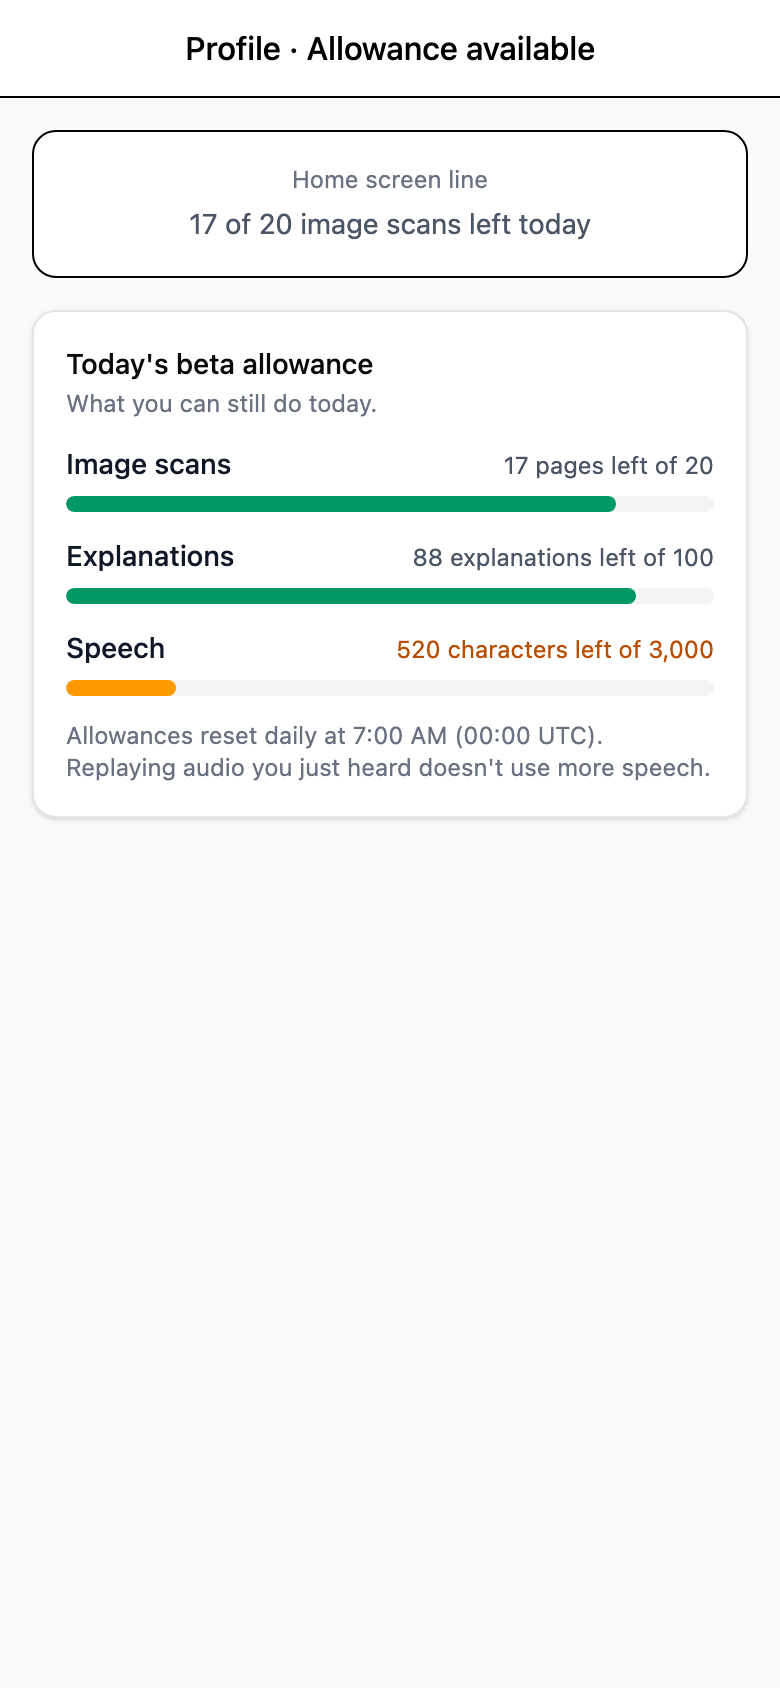
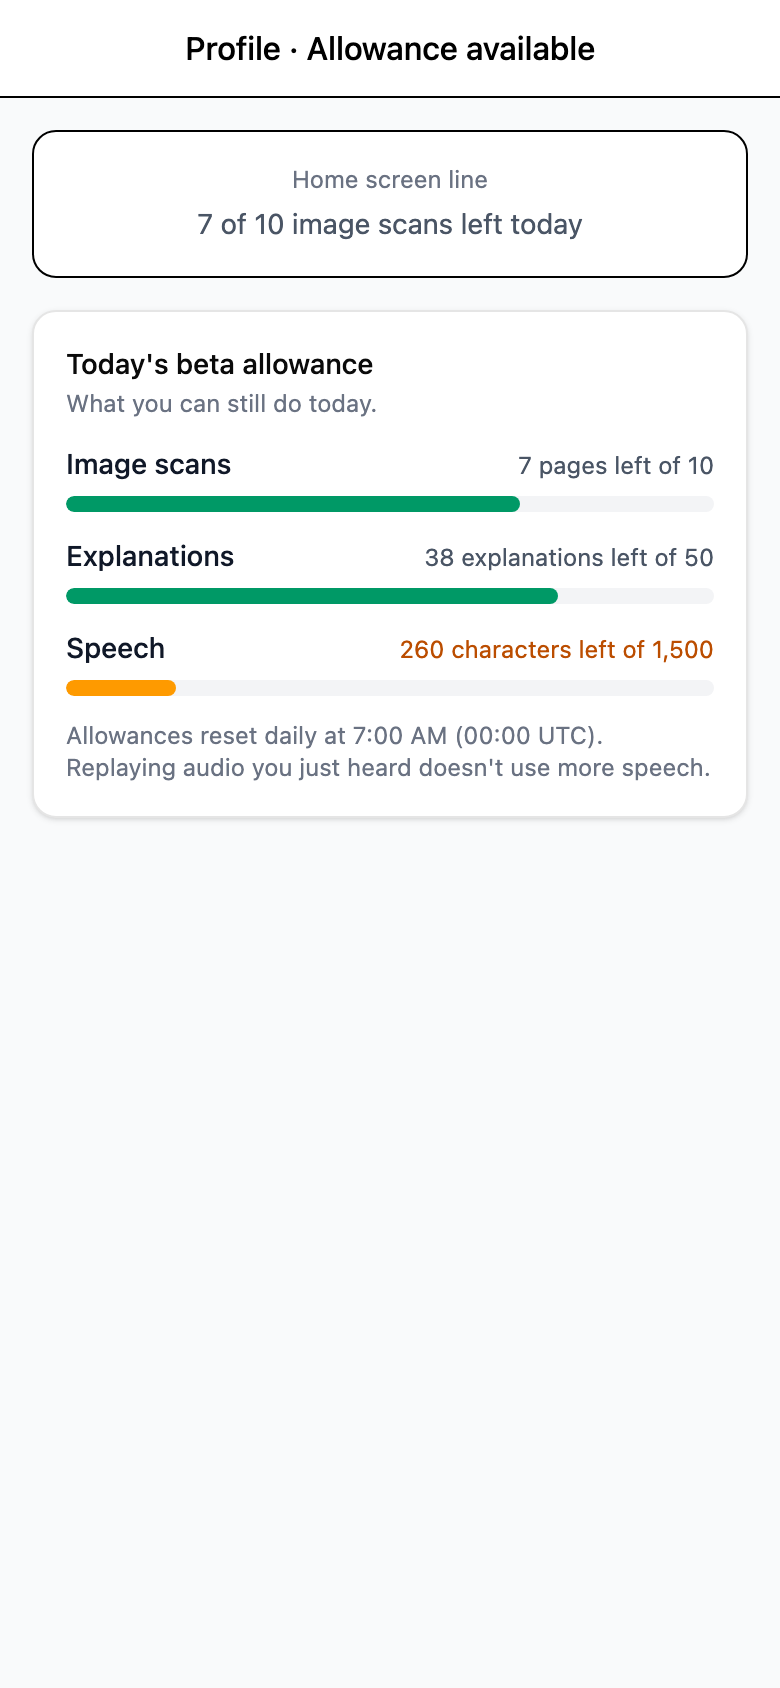
feat: apply owner-approved usage caps as defaults (#42)
Per user/day: 10 OCR pages, 50 explanations, 1500 speech characters.
Global/day: 250, 1250, 37500. Speech per request: 250 characters.

Changed region(s): [[0.5231, 0.2464, 0.8923, 0.4005], [0.2462, 0.1232, 0.7692, 0.154], [0.8615, 0.2464, 0.8923, 0.2773]]

diff --git a/web/src/lib/__tests__/usage.test.ts b/web/src/lib/__tests__/usage.test.ts
@@ -17,22 +17,22 @@ const entitlementsBody = {
     timezone: 'UTC',
     resetAt: '2026-10-21T00:00:00Z',
     features: [
-      { feature: 'ocr', unit: 'page', limit: 20, used: 3, remaining: 17, globalAvailable: true },
-      { feature: 'explanation', unit: 'request', limit: 100, used: 100, remaining: 0, globalAvailable: true },
-      { feature: 'speech', unit: 'character', limit: 3000, used: 0, remaining: 3000, maxPerRequest: 500, globalAvailable: false },
+      { feature: 'ocr', unit: 'page', limit: 10, used: 3, remaining: 7, globalAvailable: true },
+      { feature: 'explanation', unit: 'request', limit: 50, used: 50, remaining: 0, globalAvailable: true },
+      { feature: 'speech', unit: 'character', limit: 1500, used: 0, remaining: 1500, maxPerRequest: 250, globalAvailable: false },
     ],
   },
 }
 
 function allowance(overrides: Partial<FeatureAllowance>): FeatureAllowance {
-  return { feature: 'ocr', unit: 'page', limit: 20, used: 0, remaining: 20, globalAvailable: true, ...overrides }
+  return { feature: 'ocr', unit: 'page', limit: 10, used: 0, remaining: 10, globalAvailable: true, ...overrides }
 }
 
 describe('parseEntitlements', () => {
   it('accepts the API shape', () => {
     const parsed = parseEntitlements(entitlementsBody)
     expect(parsed?.usage.features.map((f) => f.feature)).toEqual(['ocr', 'explanation', 'speech'])
-    expect(parsed?.usage.features[2].maxPerRequest).toBe(500)
+    expect(parsed?.usage.features[2].maxPerRequest).toBe(250)
   })
 
   it.each([
@@ -47,11 +47,11 @@ describe('parseEntitlements', () => {
 
 describe('getAllowanceState', () => {
   it.each([
-    ['available', allowance({ remaining: 17 })],
-    ['low', allowance({ remaining: 4 })],
-    ['exhausted', allowance({ used: 20, remaining: 0 })],
+    ['available', allowance({ used: 3, remaining: 7 })],
+    ['low', allowance({ used: 8, remaining: 2 })],
+    ['exhausted', allowance({ used: 10, remaining: 0 })],
     ['disabled', allowance({ limit: 0, remaining: 0 })],
-    ['paused', allowance({ remaining: 10, globalAvailable: false })],
+    ['paused', allowance({ used: 5, remaining: 5, globalAvailable: false })],
   ])('derives %s', (state, value) => {
     expect(getAllowanceState(value)).toBe(state)
   })
@@ -67,7 +67,7 @@ describe('usage errors', () => {
   it('loads and validates entitlements', async () => {
     global.fetch = vi.fn().mockResolvedValueOnce(Response.json(entitlementsBody))
     const result = await getEntitlements()
-    expect(result.usage.features[0].remaining).toBe(17)
+    expect(result.usage.features[0].remaining).toBe(7)
 
     global.fetch = vi.fn().mockResolvedValueOnce(Response.json({ plan: 'free' }))
     await expect(getEntitlements()).rejects.toThrow('Unexpected entitlements response')
@@ -93,7 +93,7 @@ describe('usage errors', () => {
 
   it.each([
     ['usage_budget_exhausted', { feature: 'ocr', resetAt: '2026-10-21T00:00:00Z' }, /beta capacity for image scan is used up/],
-    ['usage_request_too_large', { feature: 'speech', max: 500 }, /Select up to 500 characters/],
+    ['usage_request_too_large', { feature: 'speech', max: 250 }, /Select up to 250 characters/],
     ['usage_unavailable', {}, /could not be checked/],
     ['rate_limited', {}, /Too many requests/],
     ['ai_provider_limited', {}, /AI service is busy/],

diff --git a/web/src/components/usage/__tests__/AllowancePanel.test.tsx b/web/src/components/usage/__tests__/AllowancePanel.test.tsx
@@ -10,8 +10,8 @@ function entitlements(features: FeatureAllowance[]): Entitlements {
   return { plan: 'free', usage: { period: 'daily', timezone: 'UTC', resetAt, features } }
 }
 
-const ocr: FeatureAllowance = { feature: 'ocr', unit: 'page', limit: 20, used: 3, remaining: 17, globalAvailable: true }
-const explanation: FeatureAllowance = { feature: 'explanation', unit: 'request', limit: 100, used: 100, remaining: 0, globalAvailable: true }
+const ocr: FeatureAllowance = { feature: 'ocr', unit: 'page', limit: 10, used: 3, remaining: 7, globalAvailable: true }
+const explanation: FeatureAllowance = { feature: 'explanation', unit: 'request', limit: 50, used: 50, remaining: 0, globalAvailable: true }
 const speech: FeatureAllowance = { feature: 'speech', unit: 'character', limit: 0, used: 0, remaining: 0, globalAvailable: true }
 
 describe('AllowanceView', () => {
@@ -21,7 +21,7 @@ describe('AllowanceView', () => {
     const items = within(screen.getByRole('list')).getAllByRole('listitem')
     expect(items).toHaveLength(3)
     expect(items[0]).toHaveTextContent('Image scans')
-    expect(items[0]).toHaveTextContent('17 pages left of 20')
+    expect(items[0]).toHaveTextContent('7 pages left of 10')
     expect(items[1]).toHaveTextContent('Explanations')
     expect(items[1]).toHaveTextContent(/Daily limit reached\. Resets at/)
     expect(items[2]).toHaveTextContent('Not available during the beta.')
@@ -57,11 +57,11 @@ describe('AllowanceView', () => {
 describe('ScanAllowanceLine', () => {
   it('summarises remaining scans', () => {
     render(<ScanAllowanceLine allowance={ocr} resetAt={resetAt} />)
-    expect(screen.getByText('17 of 20 image scans left today')).toBeInTheDocument()
+    expect(screen.getByText('7 of 10 image scans left today')).toBeInTheDocument()
   })
 
   it('announces an exhausted allowance and the PDF alternative', () => {
-    render(<ScanAllowanceLine allowance={{ ...ocr, used: 20, remaining: 0 }} resetAt={resetAt} />)
+    render(<ScanAllowanceLine allowance={{ ...ocr, used: 10, remaining: 0 }} resetAt={resetAt} />)
     expect(screen.getByRole('status')).toHaveTextContent(/Daily limit reached\. Resets at .+ PDF reading is still available\./)
   })
 })

diff --git a/web/src/hooks/__tests__/useEntitlements.test.ts b/web/src/hooks/__tests__/useEntitlements.test.ts
@@ -13,7 +13,7 @@ function entitlements(remaining: number, resetAt: string): Entitlements {
       period: 'daily',
       timezone: 'UTC',
       resetAt,
-      features: [{ feature: 'ocr', unit: 'page', limit: 20, used: 20 - remaining, remaining, globalAvailable: true }],
+      features: [{ feature: 'ocr', unit: 'page', limit: 10, used: 10 - remaining, remaining, globalAvailable: true }],
     },
   }
 }
@@ -31,7 +31,7 @@ describe('useEntitlements', () => {
     const fetchEntitlements = vi
       .spyOn(api, 'getEntitlements')
       .mockResolvedValueOnce(entitlements(0, '2026-10-21T00:00:00Z'))
-      .mockResolvedValueOnce(entitlements(20, '2026-10-22T00:00:00Z'))
+      .mockResolvedValueOnce(entitlements(10, '2026-10-22T00:00:00Z'))
     // Mirror App.tsx, which disables focus refetching globally.
     const queryClient = new QueryClient({ defaultOptions: { queries: { retry: false, refetchOnWindowFocus: false } } })
     const wrapper = ({ children }: { children: React.ReactNode }) =>
@@ -44,7 +44,7 @@ describe('useEntitlements', () => {
     vi.setSystemTime(new Date('2026-10-21T08:00:00Z'))
     act(() => focusManager.setFocused(true))
 
-    await waitFor(() => expect(result.current.data?.usage.features[0].remaining).toBe(20))
+    await waitFor(() => expect(result.current.data?.usage.features[0].remaining).toBe(10))
     expect(fetchEntitlements).toHaveBeenCalledTimes(2)
   })
   it('shows a page refunded by failed background OCR within a minute', async () => {

diff --git a/backend/internal/config/config.go b/backend/internal/config/config.go
@@ -59,6 +59,7 @@ type Config struct {
 
 	// Daily beta allowances (UTC days). Per-user quotas sit under a global
 	// budget per feature; 0 disables a feature and there is no unlimited value.
+	// Defaults are the owner-approved operation caps from issue #42.
 	UsageOCRPagesPerDay           int
 	UsageExplanationsPerDay       int
 	UsageSpeechCharsPerDay        int
@@ -128,13 +129,13 @@ func Load() (*Config, error) {
 		AIRateLimit:              getEnvAsIntOrDefault("AI_RATE_LIMIT", 60),
 		AIRateLimitWindowSeconds: getEnvAsIntOrDefault("AI_RATE_LIMIT_WINDOW_SECONDS", 3600),
 
-		UsageOCRPagesPerDay:           getEnvAsIntOrDefault("USAGE_QUOTA_OCR_PAGES_PER_DAY", 20),
-		UsageExplanationsPerDay:       getEnvAsIntOrDefault("USAGE_QUOTA_EXPLANATIONS_PER_DAY", 100),
-		UsageSpeechCharsPerDay:        getEnvAsIntOrDefault("USAGE_QUOTA_SPEECH_CHARS_PER_DAY", 3000),
-		UsageGlobalOCRPagesPerDay:     getEnvAsIntOrDefault("USAGE_BUDGET_GLOBAL_OCR_PAGES_PER_DAY", 500),
-		UsageGlobalExplanationsPerDay: getEnvAsIntOrDefault("USAGE_BUDGET_GLOBAL_EXPLANATIONS_PER_DAY", 2500),
-		UsageGlobalSpeechCharsPerDay:  getEnvAsIntOrDefault("USAGE_BUDGET_GLOBAL_SPEECH_CHARS_PER_DAY", 75000),
-		UsageSpeechMaxCharsPerRequest: getEnvAsIntOrDefault("USAGE_SPEECH_MAX_CHARS_PER_REQUEST", 500),
+		UsageOCRPagesPerDay:           getEnvAsIntOrDefault("USAGE_QUOTA_OCR_PAGES_PER_DAY", 10),
+		UsageExplanationsPerDay:       getEnvAsIntOrDefault("USAGE_QUOTA_EXPLANATIONS_PER_DAY", 50),
+		UsageSpeechCharsPerDay:        getEnvAsIntOrDefault("USAGE_QUOTA_SPEECH_CHARS_PER_DAY", 1500),
+		UsageGlobalOCRPagesPerDay:     getEnvAsIntOrDefault("USAGE_BUDGET_GLOBAL_OCR_PAGES_PER_DAY", 250),
+		UsageGlobalExplanationsPerDay: getEnvAsIntOrDefault("USAGE_BUDGET_GLOBAL_EXPLANATIONS_PER_DAY", 1250),
+		UsageGlobalSpeechCharsPerDay:  getEnvAsIntOrDefault("USAGE_BUDGET_GLOBAL_SPEECH_CHARS_PER_DAY", 37500),
+		UsageSpeechMaxCharsPerRequest: getEnvAsIntOrDefault("USAGE_SPEECH_MAX_CHARS_PER_REQUEST", 250),
 	}
 
 	if cfg.normalizedAIProvider() == AIProviderRouted {

diff --git a/backend/internal/config/config_test.go b/backend/internal/config/config_test.go
@@ -139,10 +139,10 @@ func TestLoadReadsUsageQuotaConfig(t *testing.T) {
 	if cfg.UsageGlobalSpeechCharsPerDay != 1234 {
 		t.Fatalf("UsageGlobalSpeechCharsPerDay = %d, want 1234", cfg.UsageGlobalSpeechCharsPerDay)
 	}
-	// Documented beta defaults.
-	if cfg.UsageExplanationsPerDay != 100 || cfg.UsageSpeechCharsPerDay != 3000 ||
-		cfg.UsageGlobalOCRPagesPerDay != 500 || cfg.UsageGlobalExplanationsPerDay != 2500 ||
-		cfg.UsageSpeechMaxCharsPerRequest != 500 {
+	// Owner-approved beta defaults (issue #42).
+	if cfg.UsageExplanationsPerDay != 50 || cfg.UsageSpeechCharsPerDay != 1500 ||
+		cfg.UsageGlobalOCRPagesPerDay != 250 || cfg.UsageGlobalExplanationsPerDay != 1250 ||
+		cfg.UsageSpeechMaxCharsPerRequest != 250 {
 		t.Fatalf("unexpected usage defaults: %+v", cfg)
 	}
 }
@@ -342,13 +342,13 @@ func validConfig() *Config {
 		AIRateLimit:              60,
 		AIRateLimitWindowSeconds: 3600,
 
-		UsageOCRPagesPerDay:           20,
-		UsageExplanationsPerDay:       100,
-		UsageSpeechCharsPerDay:        3000,
-		UsageGlobalOCRPagesPerDay:     500,
-		UsageGlobalExplanationsPerDay: 2500,
-		UsageGlobalSpeechCharsPerDay:  75000,
-		UsageSpeechMaxCharsPerRequest: 500,
+		UsageOCRPagesPerDay:           10,
+		UsageExplanationsPerDay:       50,
+		UsageSpeechCharsPerDay:        1500,
+		UsageGlobalOCRPagesPerDay:     250,
+		UsageGlobalExplanationsPerDay: 1250,
+		UsageGlobalSpeechCharsPerDay:  37500,
+		UsageSpeechMaxCharsPerRequest: 250,
 	}
 }
 

diff --git a/docs/superpowers/plans/2026-10-20-issue-42-usage-quotas.md b/docs/superpowers/plans/2026-10-20-issue-42-usage-quotas.md
@@ -22,15 +22,15 @@ Paid AI work (image OCR, explanations and speech) is admitted against persisted 
 - Clerk (#39) maps users to a stable numeric `users.id`. Account deletion runs `DELETE FROM users`. Migrations end at `005`; `006` is reserved for #42.
 - #41 is changing `scan.go`, `document.go`, `user.go` and `main.go`. Admission therefore sits **before** the scan row insert, and the reservation does not depend on the scan row, because #41's discard paths delete it.
 
-## Policy (provisional operation caps pending owner approval; all configurable)
+## Policy (owner-approved operation caps; all configurable)
 
 | Feature | Unit | Per-user/day | Global/day | Env |
 |---|---|---|---|---|
-| OCR | image page | 20 | 500 | `USAGE_QUOTA_OCR_PAGES_PER_DAY`, `USAGE_BUDGET_GLOBAL_OCR_PAGES_PER_DAY` |
-| Explanation | request | 100 | 2500 | `USAGE_QUOTA_EXPLANATIONS_PER_DAY`, `USAGE_BUDGET_GLOBAL_EXPLANATIONS_PER_DAY` |
-| Speech | character of selected text (Unicode code points) | 3000 | 75000 | `USAGE_QUOTA_SPEECH_CHARS_PER_DAY`, `USAGE_BUDGET_GLOBAL_SPEECH_CHARS_PER_DAY` |
+| OCR | image page | 10 | 250 | `USAGE_QUOTA_OCR_PAGES_PER_DAY`, `USAGE_BUDGET_GLOBAL_OCR_PAGES_PER_DAY` |
+| Explanation | request | 50 | 1250 | `USAGE_QUOTA_EXPLANATIONS_PER_DAY`, `USAGE_BUDGET_GLOBAL_EXPLANATIONS_PER_DAY` |
+| Speech | character of selected text (Unicode code points) | 1500 | 37500 | `USAGE_QUOTA_SPEECH_CHARS_PER_DAY`, `USAGE_BUDGET_GLOBAL_SPEECH_CHARS_PER_DAY` |
 
-- These are routine bounded beta defaults, chosen so the global budget is roughly 25 users at full allowance. The owner can change them by environment variable without a deploy-time code change. There is no unlimited tier. `0` disables a feature, and negative values fail config validation.
+- **Owner-approved caps (2026-10-20):** the owner approved half of each originally proposed value (originally 20/100/3000 per user, 500/2500/75000 global, 500 characters per speech request). Speech is also capped at 250 characters per request (`USAGE_SPEECH_MAX_CHARS_PER_REQUEST`). These are operation and character caps, not a currency spending cap. The global budget is still roughly 25 users at full allowance. The owner can change them by environment variable without a deploy-time code change. There is no unlimited tier. `0` disables a feature, and negative values fail config validation.
 - **Reset:** daily at 00:00 UTC. `usage_day` is the UTC date at admission. `resetAt` is the next UTC midnight.
 - **Charge timing:** units are reserved atomically before the provider call, and both the user and global counters include in-flight reservations.
 - **Settlement:**
@@ -110,7 +110,7 @@ Paid AI work (image OCR, explanations and speech) is admitted against persisted 
 - **Missing cost metadata:** `missing`, never estimated.
 - **Zero allowance:** rejected with the quota error; the UI reads "Not available during beta".
 - **Global exhausted first:** `usage_budget_exhausted` with the global `resetAt`; the UI shows a beta-capacity notice.
-- **Large speech input:** a selection longer than `USAGE_SPEECH_MAX_CHARS_PER_REQUEST` (default 500), or than the per-user daily limit, returns a non-retryable `413 speech_text_too_long`, not a quota 429. Otherwise the requested characters must fit within the remaining allowance.
+- **Large speech input:** a selection longer than `USAGE_SPEECH_MAX_CHARS_PER_REQUEST` (default 250), or than the per-user daily limit, returns a non-retryable `413 speech_text_too_long`, not a quota 429. Otherwise the requested characters must fit within the remaining allowance.
 - **Budget rejection:** no logout (it is not a 401).
 
 ## Acceptance criteria
@@ -130,7 +130,7 @@ Paid AI work (image OCR, explanations and speech) is admitted against persisted 
 - Handler tests (a testutil in-memory meter; a nil meter is never "unmetered"): quota 429 body, provider 429 code, pre-dispatch failure `released`, provider failure `failed`, speech too long 413.
 - Web: `bun run test`, `bun run lint`, `bun run build`.
 - Playwright screenshots (1280×800, 390×844) from a temporary uncommitted Vite harness that renders the real `AllowancePanel` and the quota message states with fixture data. States: allowance, empty (zero/disabled), exhausted (user and global), entitlements-fetch error, and recovery after reset. Live Clerk login is not claimed.
-- The defaults are recorded on #42 as owner-adjustable. Owner confirmation of the exact numbers stays pending and is not recorded as agreed.
+- The owner approved the caps above on 2026-10-20 (half of each original proposal). They are recorded on #42.
 - Shared 30-minute test-debug budget for #42.
 
 ## Out of scope
@@ -161,3 +161,26 @@ Billing or paid plans, model selection (#35), a service layer (#14), auth change
 ## Review round 2 (Sol, REQUEST_CHANGES on ca07cae, one minor finding), resolved
 
 - **A page refunded by failed background OCR could stay hidden until focus or midnight.** An entitlements snapshot taken while OCR still held the page stayed in use after the refund. `useEntitlements` now refreshes at least every 60 s while visible (5 s floor, and still just after the reset). A regression test covers reservation in flight → OCR fails → allowance restored, and fails without the fix.
+
+## Follow-up: owner-approved caps (branch `backlog/issue-42-approved-caps`)
+
+- **Scope:** apply the owner-approved caps as code defaults and update every doc, example and test fixture to match.
+  - Per user per day: 10 OCR pages, 50 explanations, 1500 speech characters.
+  - Global per day: 250 OCR pages, 1250 explanations, 37500 speech characters.
+  - Speech per request: 250 characters.
+  - Reset stays at 00:00 UTC.
+  - Environment overrides and zero-disables semantics are unchanged.
+  - No production configuration change and no deploy.
+- **Files:**
+  - `backend/internal/config/config.go` (+ test defaults)
+  - `backend/.env.example`, `backend/AGENTS.md`
+  - `docs/usage-quotas.md`, `backend/docs/openapi.yaml` (example)
+  - web test fixtures and examples (`usage.test.ts`, `AllowancePanel.test.tsx`, `useEntitlements.test.ts`)
+  - regenerated `docs/screenshots/issue-42/*`
+  - this plan
+- **Out of scope:** the source of truth is registry `scopeDecisions.quotaLimits`. Handler tests that set explicit custom limits keep them, because they test semantics, not defaults.
+- **Verification:**
+  - Backend: config tests, `go test ./...` and `go vet`.
+  - Web: `bun run test`, `lint` and `build`.
+  - Screenshots at desktop and mobile sizes with the approved values (temporary uncommitted harness).
+  - Final-head CI.

diff --git a/docs/usage-quotas.md b/docs/usage-quotas.md
@@ -2,18 +2,18 @@
 
 ANNOTA meters its paid AI work against persisted daily allowances: one per user per feature, plus one global beta budget per feature. The backend enforces them (`backend/internal/usage`, `backend/internal/storage/usage.go`, migration `006_usage_quotas.sql`). The app shows the remaining allowance on the profile page, and the image-scan allowance on the home screen.
 
-The limits are **operation caps** (pages, requests, characters), not a currency budget. Their values are **provisional and pending owner approval**. This is a beta cost control, not billing. There are no paid plans or prices, and the app makes no financial promises.
+The limits are **operation caps** (pages, requests, characters), not a currency budget. Their values were **approved by the owner** on 2026-10-20. This is a beta cost control, not billing. There are no paid plans or prices, and the app makes no financial promises.
 
 ## What is metered
 
 | Feature | Endpoint | Unit charged | Per user per day | Global per day |
 |---|---|---|---|---|
-| `ocr` | `POST /v1/scans` (image OCR) | 1 page per image | `USAGE_QUOTA_OCR_PAGES_PER_DAY` = 20 | `USAGE_BUDGET_GLOBAL_OCR_PAGES_PER_DAY` = 500 |
-| `explanation` | `POST /v1/ai/analyze` | 1 request | `USAGE_QUOTA_EXPLANATIONS_PER_DAY` = 100 | `USAGE_BUDGET_GLOBAL_EXPLANATIONS_PER_DAY` = 2500 |
-| `speech` | `POST /v1/ai/speech` | characters (Unicode code points) of the selected text | `USAGE_QUOTA_SPEECH_CHARS_PER_DAY` = 3000 | `USAGE_BUDGET_GLOBAL_SPEECH_CHARS_PER_DAY` = 75000 |
+| `ocr` | `POST /v1/scans` (image OCR) | 1 page per image | `USAGE_QUOTA_OCR_PAGES_PER_DAY` = 10 | `USAGE_BUDGET_GLOBAL_OCR_PAGES_PER_DAY` = 250 |
+| `explanation` | `POST /v1/ai/analyze` | 1 request | `USAGE_QUOTA_EXPLANATIONS_PER_DAY` = 50 | `USAGE_BUDGET_GLOBAL_EXPLANATIONS_PER_DAY` = 1250 |
+| `speech` | `POST /v1/ai/speech` | characters (Unicode code points) of the selected text | `USAGE_QUOTA_SPEECH_CHARS_PER_DAY` = 1500 | `USAGE_BUDGET_GLOBAL_SPEECH_CHARS_PER_DAY` = 37500 |
 
-- The defaults are provisional, bounded beta values proposed in issue #42 and still pending owner approval; the global budget is roughly 25 users at full allowance. The owner can change any of them through environment variables. `0` disables a feature, negative values fail startup validation, and there is no unlimited setting.
-- A speech selection longer than `USAGE_SPEECH_MAX_CHARS_PER_REQUEST` (default 500), or longer than the per-user daily limit, is rejected as too large. A request larger than the global budget is reported as an exhausted budget, so the 413 never reveals the global value.
+- The defaults are the owner-approved beta caps from issue #42: half of each value originally proposed. The global budget is roughly 25 users at full allowance. The operator can still override any of them through environment variables. `0` disables a feature, negative values fail startup validation, and there is no unlimited setting.
+- A speech selection longer than `USAGE_SPEECH_MAX_CHARS_PER_REQUEST` (default 250), or longer than the per-user daily limit, is rejected as too large. A request larger than the global budget is reported as an exhausted budget, so the 413 never reveals the global value.
 - These are not metered, because they make no AI call:
   - PDF pages, whose text is extracted locally;
   - re-opening stored scans or OCR text;

diff --git a/backend/AGENTS.md b/backend/AGENTS.md
@@ -73,9 +73,9 @@ Optional (with defaults):
 - `MINIMAX_TTS_VOICE_ID` - Speech voice ID (default: `Japanese_Whisper_Belle`; not in the published system voice list as of 2026-10-20)
 - `AI_RATE_LIMIT` - AI-backed route limit, set `0` to disable locally (default: `60`)
 - `AI_RATE_LIMIT_WINDOW_SECONDS` - AI rate limit window (default: `3600`)
-- `USAGE_QUOTA_OCR_PAGES_PER_DAY` / `USAGE_QUOTA_EXPLANATIONS_PER_DAY` / `USAGE_QUOTA_SPEECH_CHARS_PER_DAY` - Persistent per-user daily operation caps (provisional defaults `20` / `100` / `3000`, pending owner approval; `0` disables)
-- `USAGE_BUDGET_GLOBAL_OCR_PAGES_PER_DAY` / `USAGE_BUDGET_GLOBAL_EXPLANATIONS_PER_DAY` / `USAGE_BUDGET_GLOBAL_SPEECH_CHARS_PER_DAY` - Global daily operation caps (provisional defaults `500` / `2500` / `75000`)
-- `USAGE_SPEECH_MAX_CHARS_PER_REQUEST` - Largest single speech selection (default: `500`)
+- `USAGE_QUOTA_OCR_PAGES_PER_DAY` / `USAGE_QUOTA_EXPLANATIONS_PER_DAY` / `USAGE_QUOTA_SPEECH_CHARS_PER_DAY` - Persistent per-user daily operation caps (owner-approved defaults `10` / `50` / `1500`; `0` disables)
+- `USAGE_BUDGET_GLOBAL_OCR_PAGES_PER_DAY` / `USAGE_BUDGET_GLOBAL_EXPLANATIONS_PER_DAY` / `USAGE_BUDGET_GLOBAL_SPEECH_CHARS_PER_DAY` - Global daily operation caps (owner-approved defaults `250` / `1250` / `37500`)
+- `USAGE_SPEECH_MAX_CHARS_PER_REQUEST` - Largest single speech selection (default: `250`)
 
 Paid AI handlers must admit work through `usage.Meter` (reserve before the provider call, `Finish`/`Release` exactly once, classify from structured `ai` metadata only). See `../docs/usage-quotas.md`.
 
